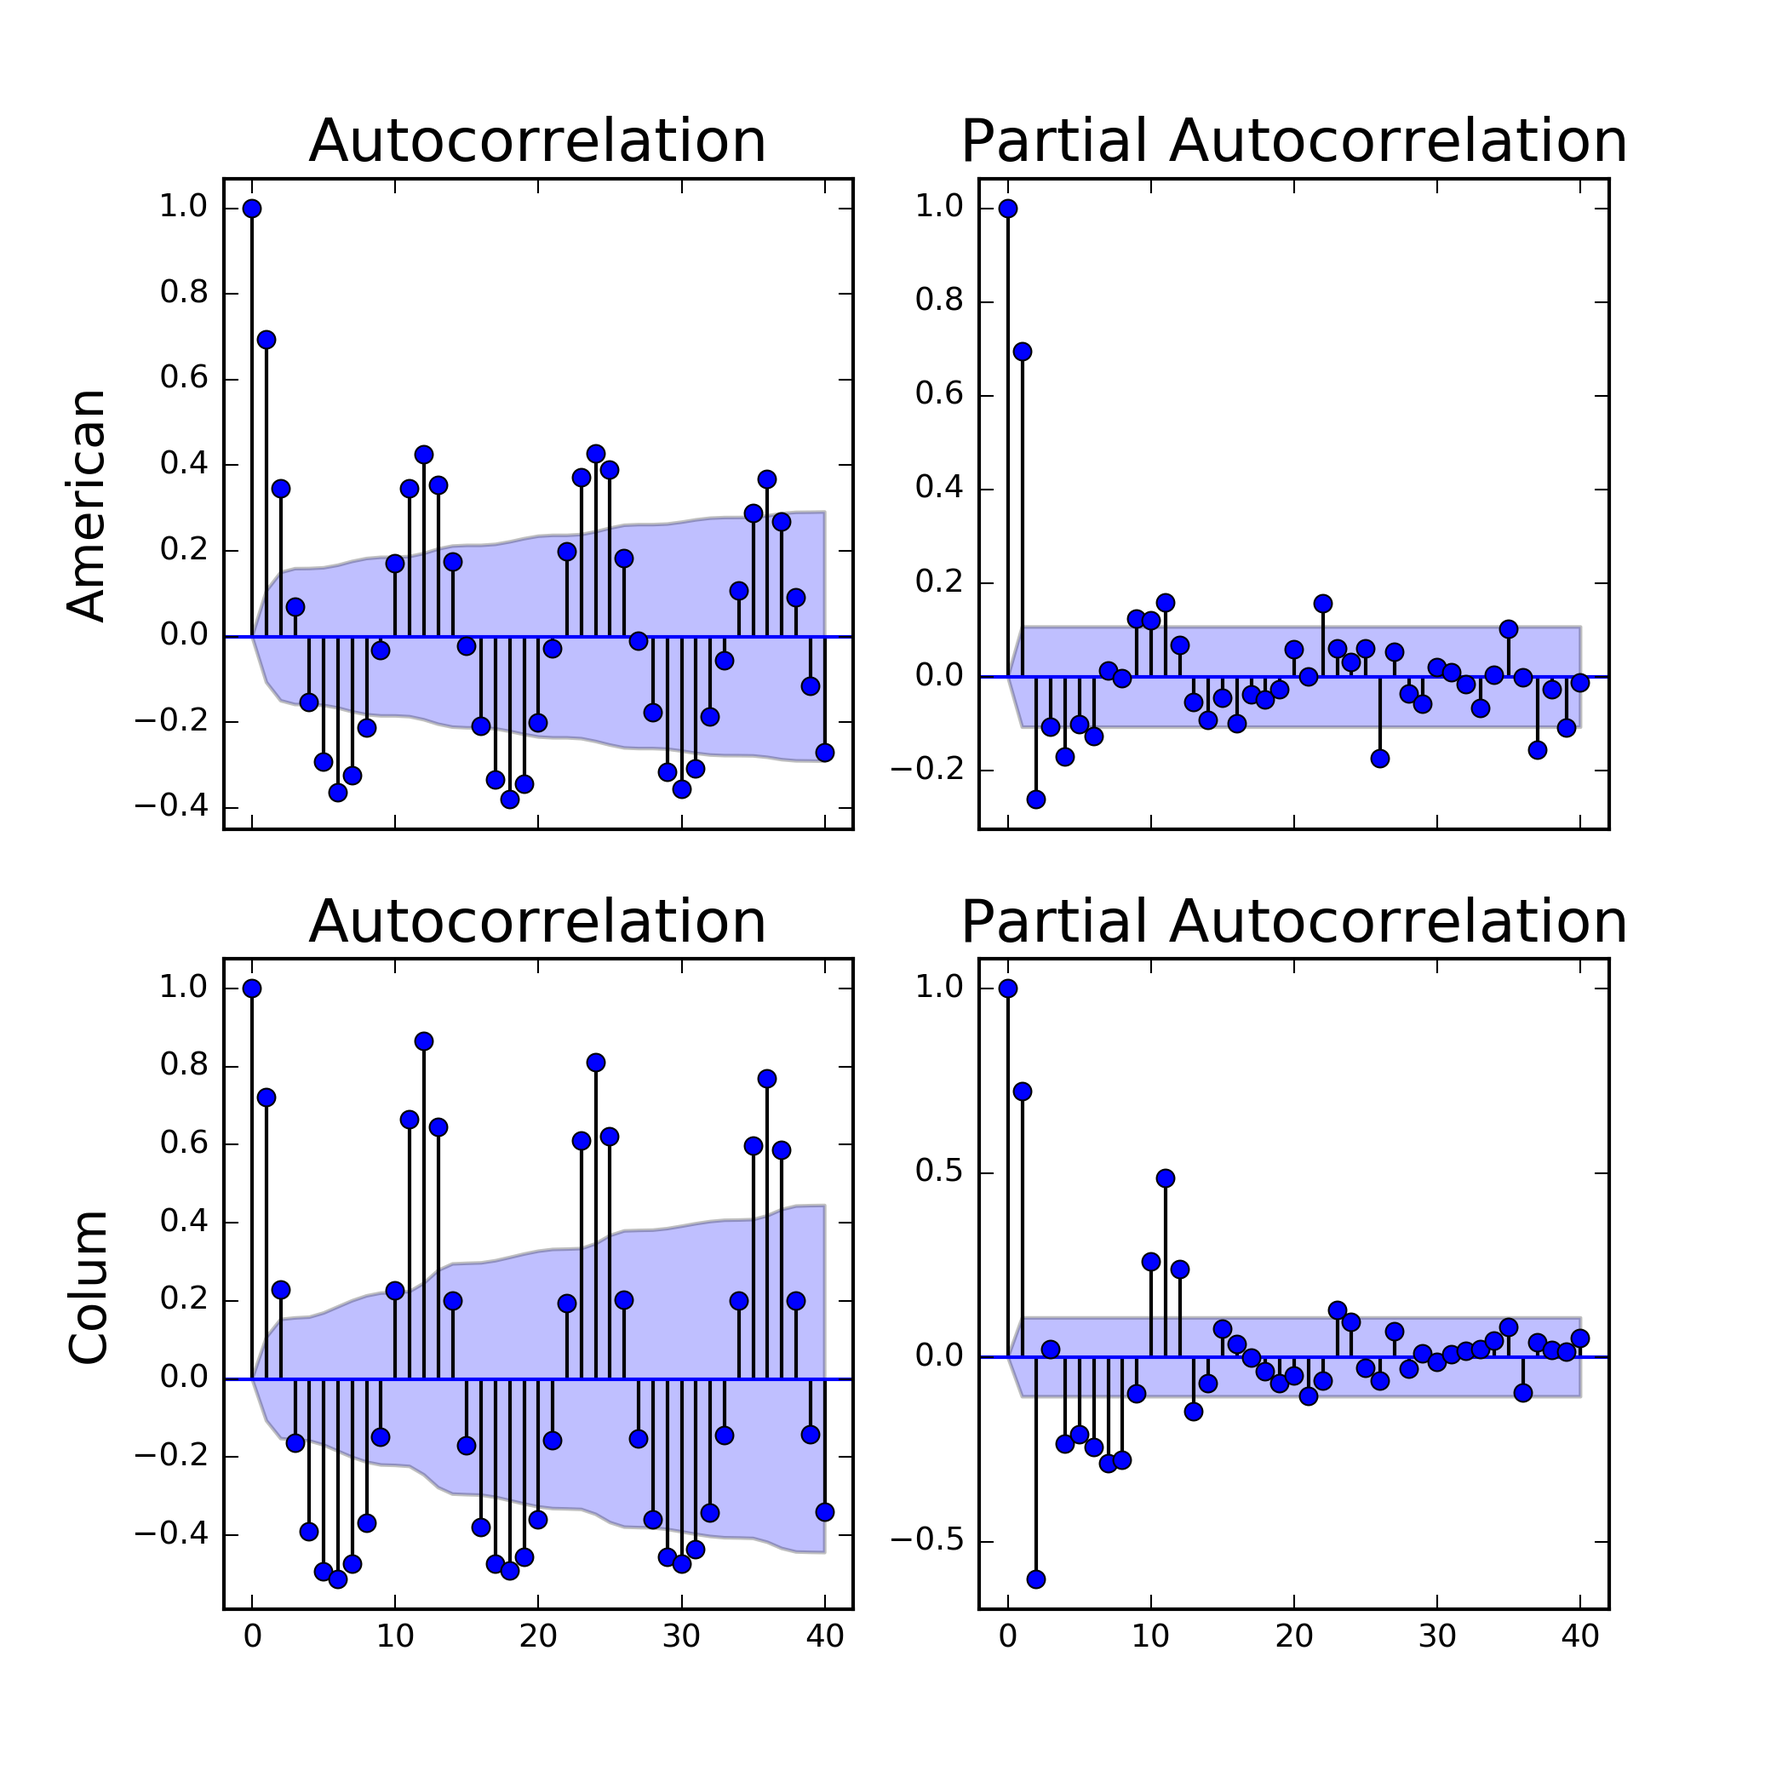
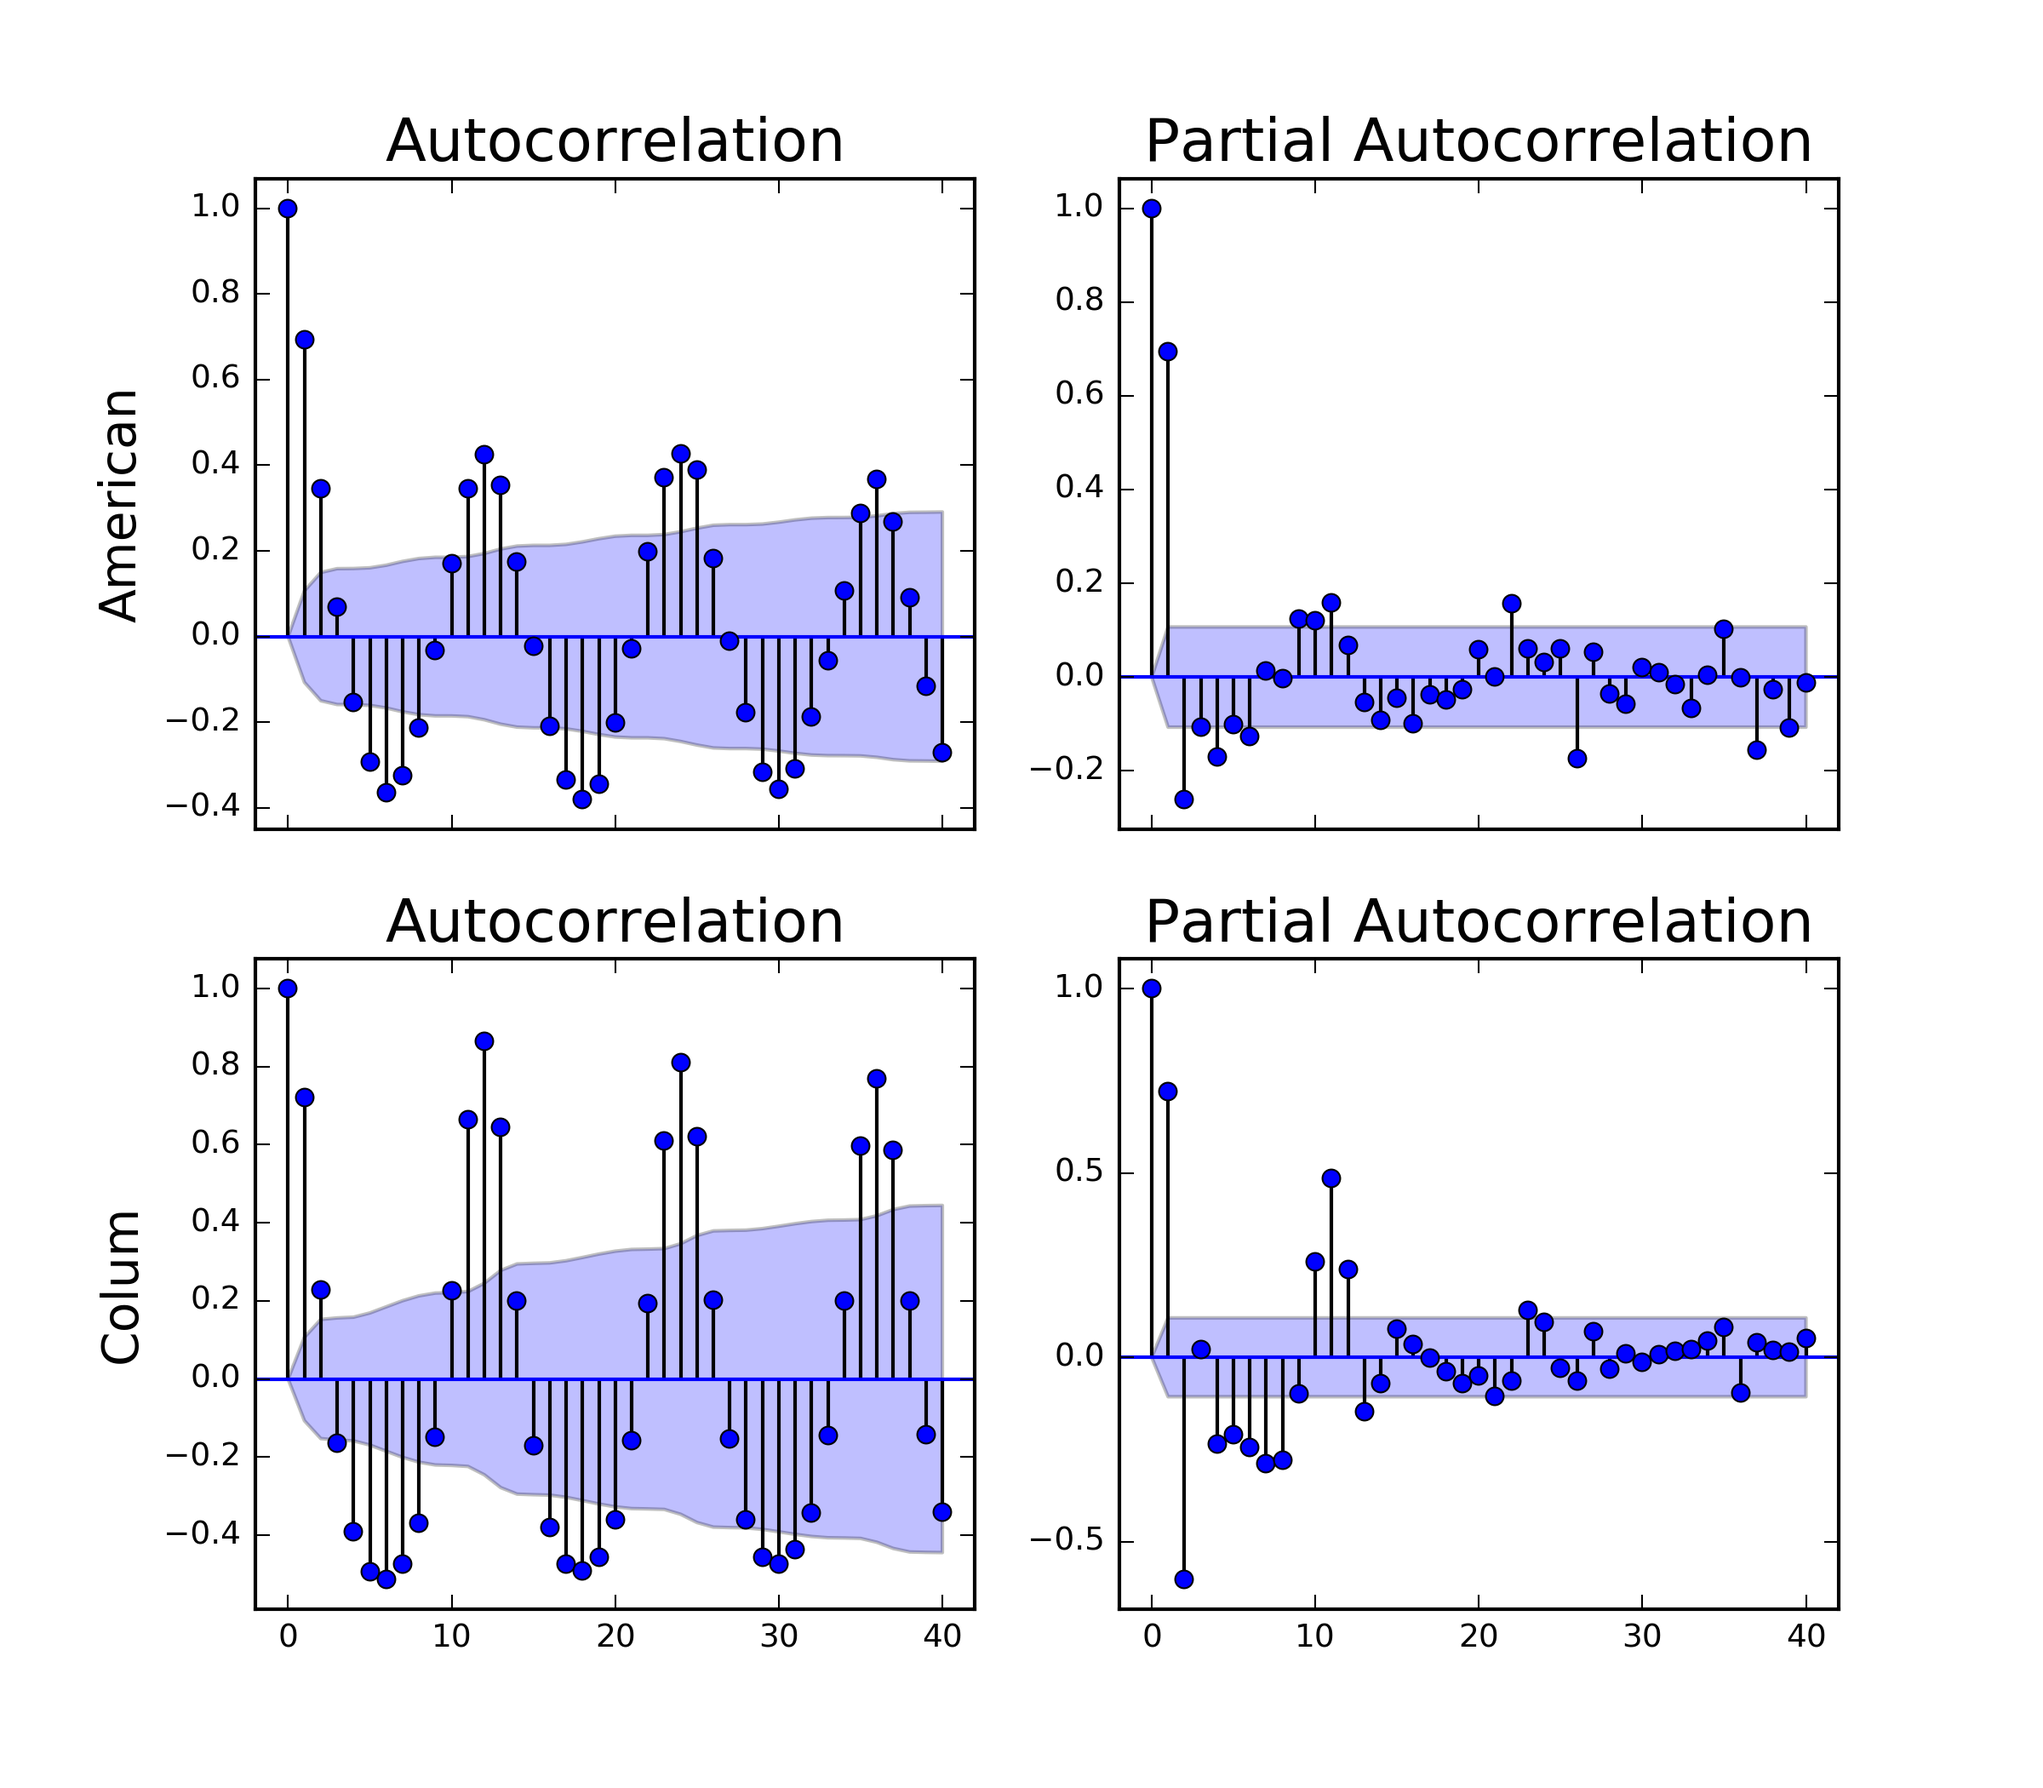
Uniforming chart sizes

diff --git a/Codes/Chapter7/ts_timeSeriesFunctions_alternative.py b/Codes/Chapter7/ts_timeSeriesFunctions_alternative.py
@@ -22,7 +22,7 @@ riverFlows = pd.read_csv(data_folder + 'combined_flow.csv',
 fig, ax = plt.subplots(2, 2, sharex=True) 
 
 # set the size of the figure explicitly
-fig.set_size_inches(7, 7)
+fig.set_size_inches(8, 7)
 
 # plot the charts for american
 sm.graphics.tsa.plot_acf(
